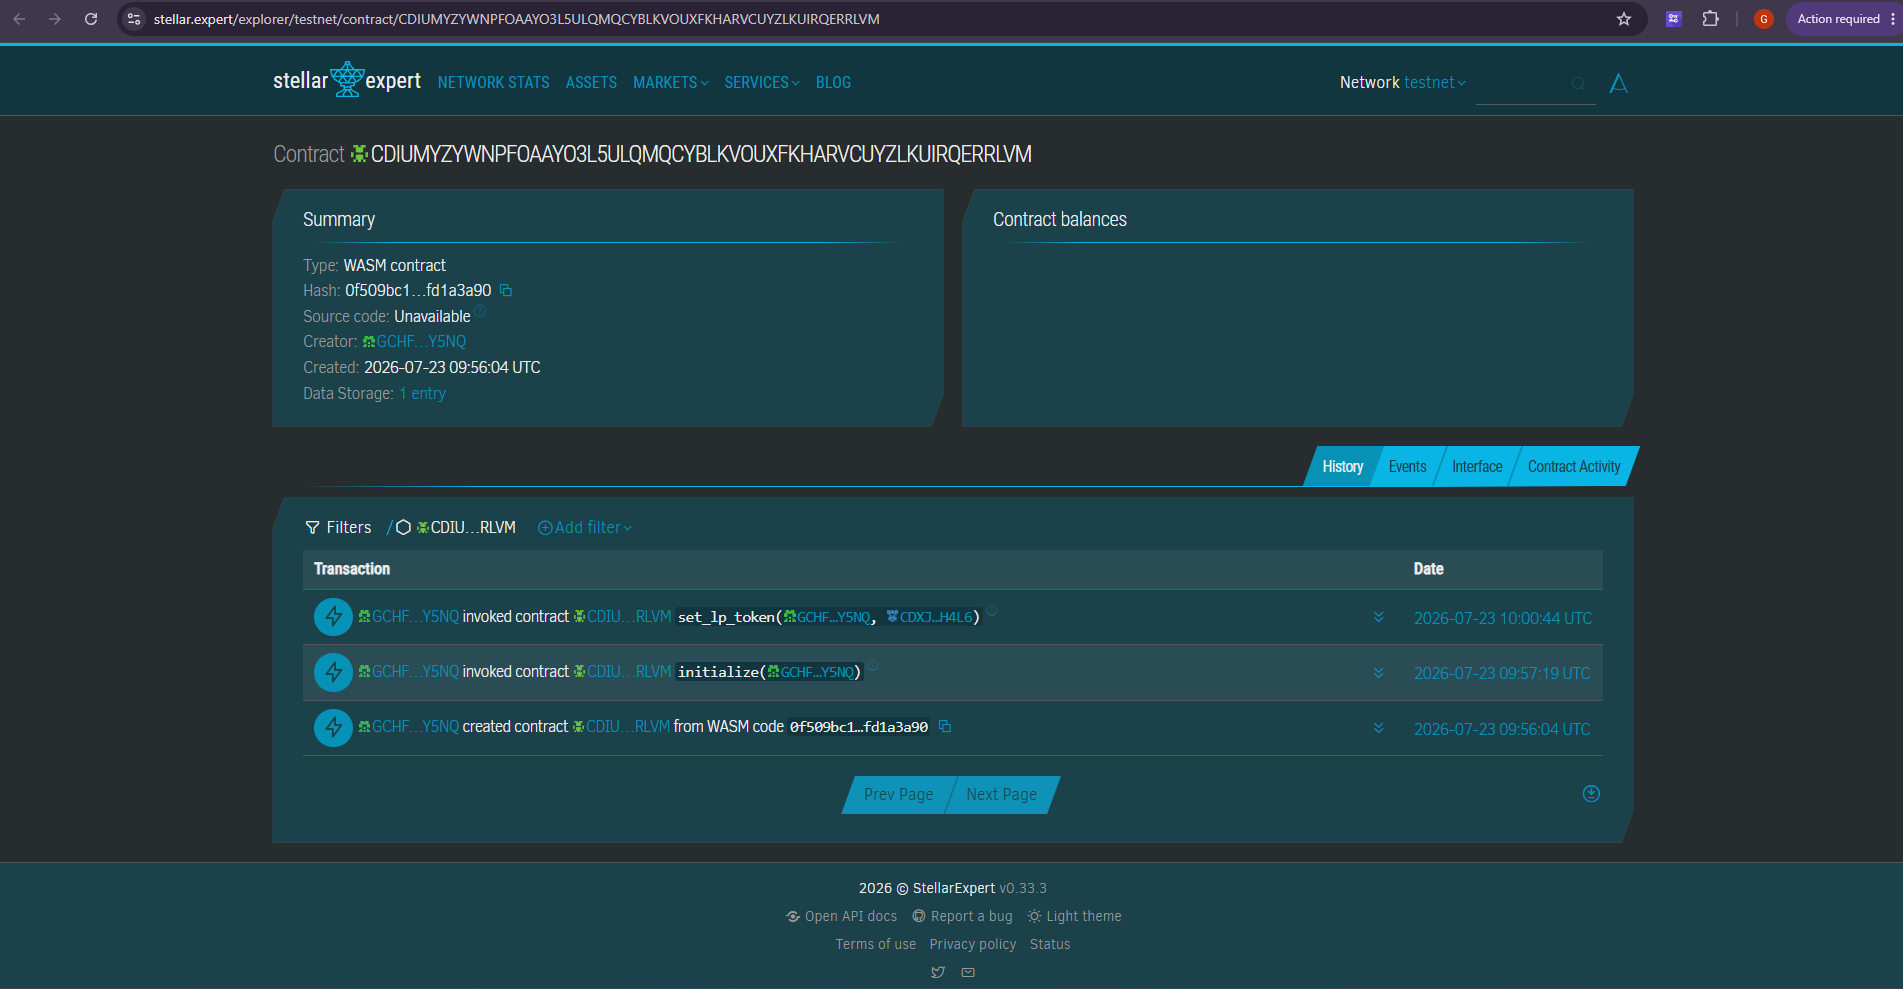
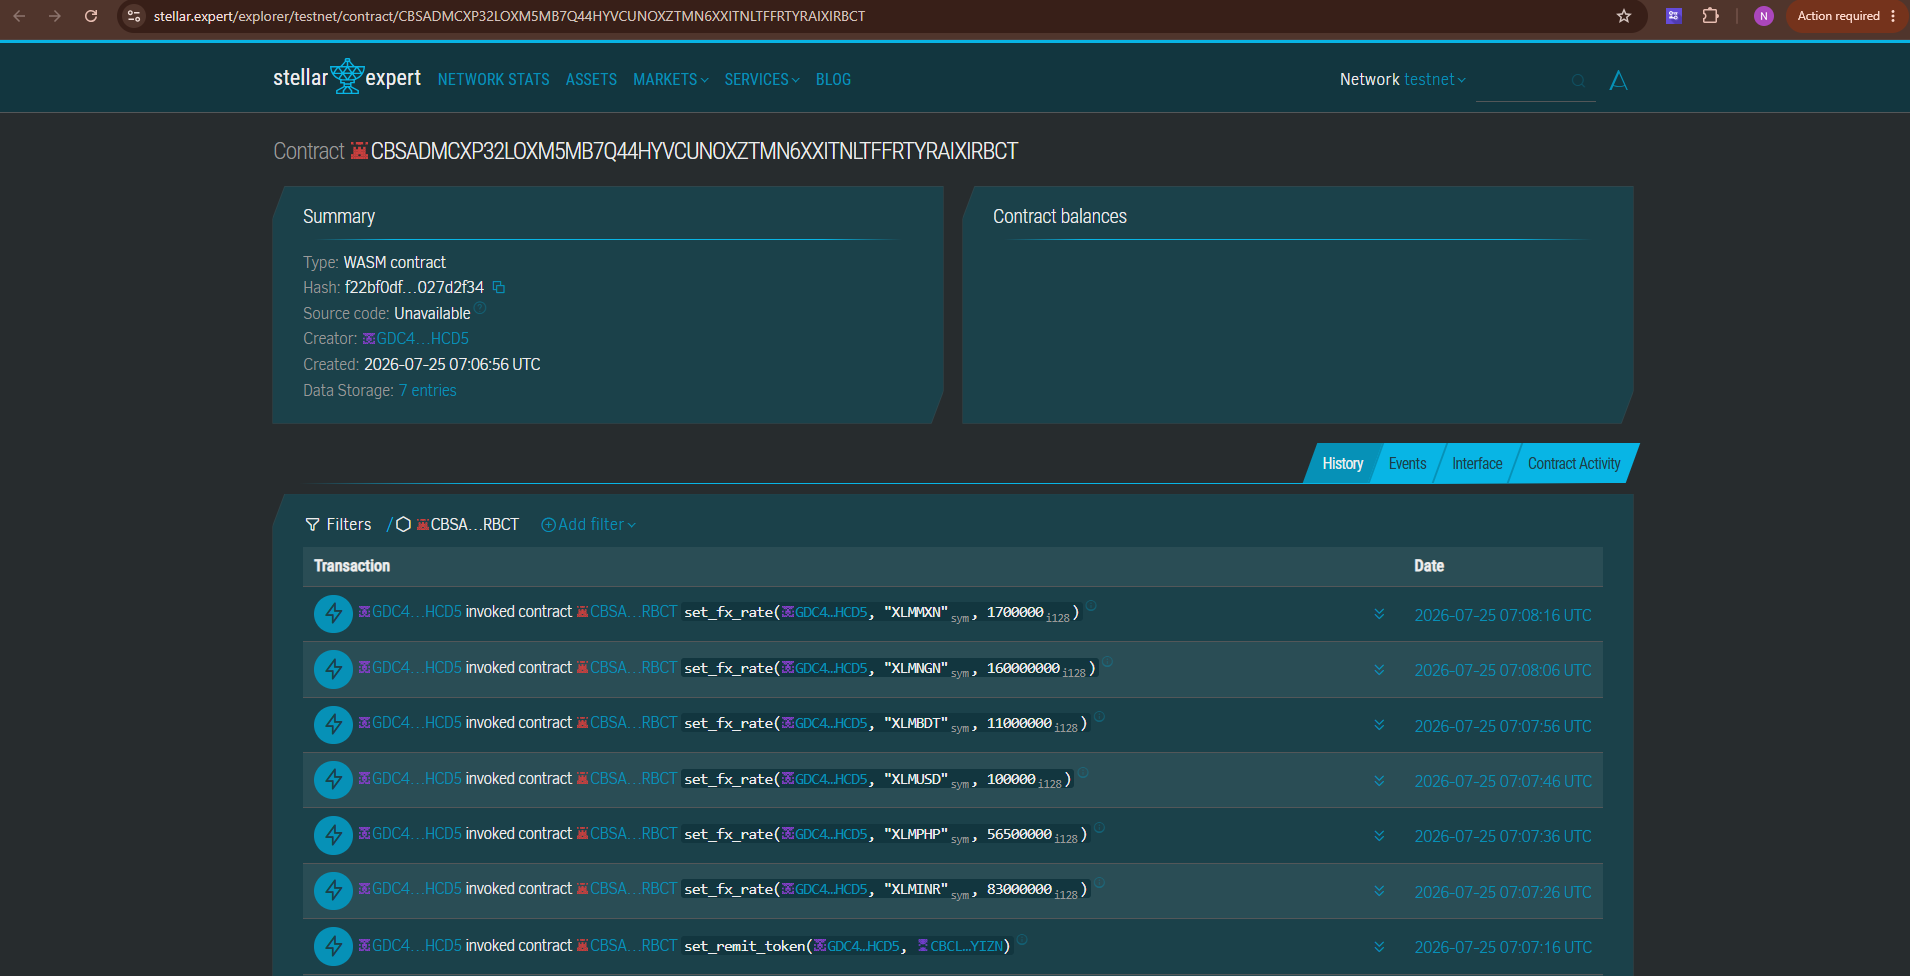
docs: add application screenshots section to README.md

diff --git a/README.md b/README.md
@@ -22,10 +22,24 @@
 |---|---|
 | 🌐 **Live Vercel App** | *(Deploy to Vercel and update)* |
 | 📹 **Demo Video** | *(Record and update)* |
-| 🏦 **StellarRemit Contract** | `NEXT_PUBLIC_STELLAR_REMIT_CONTRACT_ID=CBSADMCXP32LOXM5MB7Q44HYVCUNOXZTMN6XXITNLTFFRTYRAIXIRBCT |
-| 🪙 **SRT Token Contract** | `NEXT_PUBLIC_SRT_TOKEN_CONTRACT_ID=CBCLW5ZUAN2YN677JC2672QMGAPDMWIUZWLOVAACCWU66SNS7KSIYIZN |
-| 🔍 **Stellar Explorer (Remit)** | [View on Stellar Expert](https://stellar.expert/explorer/testnet/contract/CDIUMYZYWNPFOAAYO3L5ULQMQCYBLKVOUXFKHARVCUYZLKUIRQERRLVM) |
-| 🔍 **Stellar Explorer (SRT)** | [View on Stellar Expert](https://stellar.expert/explorer/testnet/contract/CDXJJX2COYKB5MQX5OL235JYRCHGT6FJOIOCPB3T4KDKTXYGRBURH4L6) |
+| 🏦 **StellarRemit Contract** | `CBSADMCXP32LOXM5MB7Q44HYVCUNOXZTMN6XXITNLTFFRTYRAIXIRBCT` |
+| 🪙 **SRT Token Contract** | `CBCLW5ZUAN2YN677JC2672QMGAPDMWIUZWLOVAACCWU66SNS7KSIYIZN` |
+| 🔍 **Stellar Explorer (Remit)** | [View on Stellar Expert](https://stellar.expert/explorer/testnet/contract/CBSADMCXP32LOXM5MB7Q44HYVCUNOXZTMN6XXITNLTFFRTYRAIXIRBCT) |
+| 🔍 **Stellar Explorer (SRT)** | [View on Stellar Expert](https://stellar.expert/explorer/testnet/contract/CBCLW5ZUAN2YN677JC2672QMGAPDMWIUZWLOVAACCWU66SNS7KSIYIZN) |
+
+---
+
+## 📸 Screenshots
+
+<div align="center">
+
+### 📊 StellarRemit Protocol Dashboard & Live Balances
+![StellarRemit Dashboard](photos/dashboard.png)
+
+### 🔍 Stellar Testnet Explorer Verified Smart Contract
+![Stellar Expert Explorer](photos/steller-expert.png)
+
+</div>
 
 ---
 
